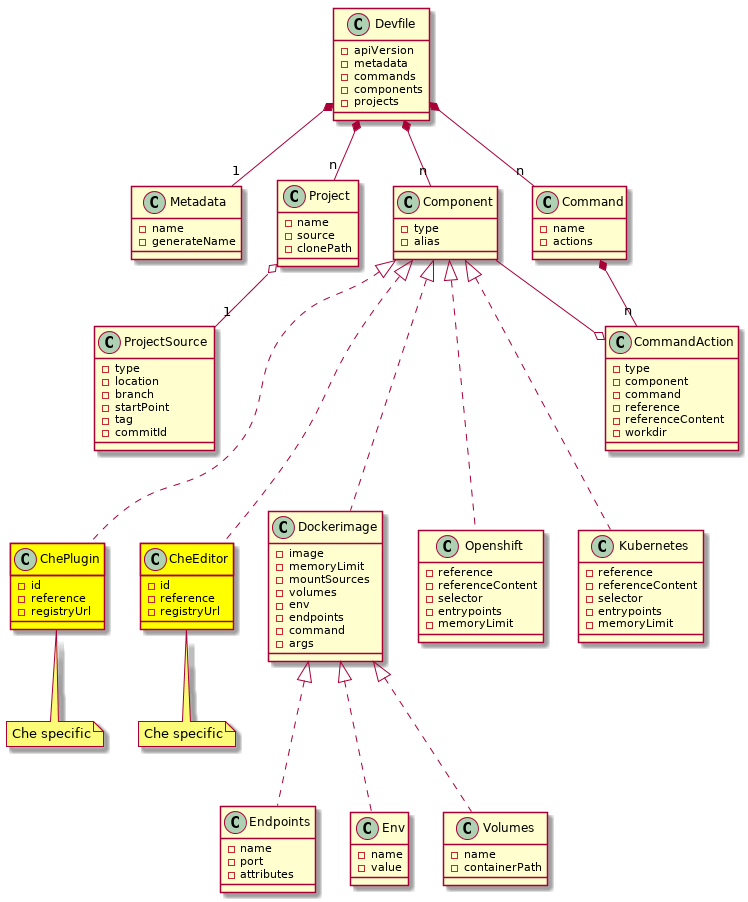
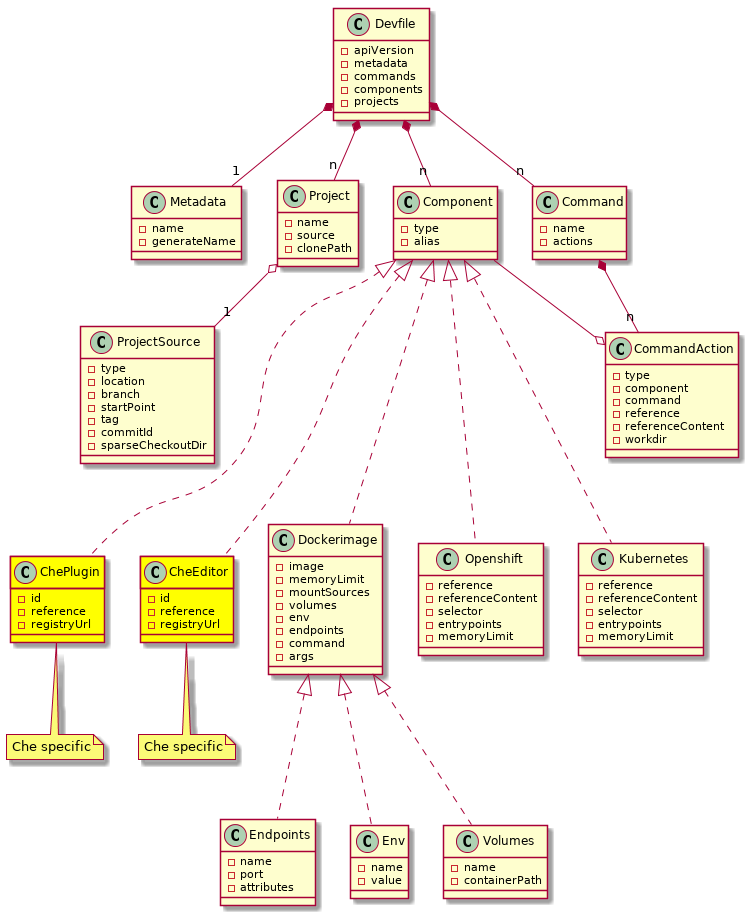
update schema with latest master (#54)

diff --git a/docs/devfile.md b/docs/devfile.md
@@ -14,7 +14,7 @@ This schema describes the structure of the devfile object
 
 | Property                  | Type       | Required     | Nullable | Defined by                   |
 | ------------------------- | ---------- | ------------ | -------- | ---------------------------- |
-| [apiVersion](#apiversion) | `string`   | **Required** | No       | Devfile object (this schema) |
+| [apiVersion](#apiversion) | `const`    | **Required** | No       | Devfile object (this schema) |
 | [attributes](#attributes) | `object`   | Optional     | No       | Devfile object (this schema) |
 | [commands](#commands)     | `object[]` | Optional     | No       | Devfile object (this schema) |
 | [components](#components) | `object[]` | Optional     | No       | Devfile object (this schema) |
@@ -28,14 +28,10 @@ This schema describes the structure of the devfile object
 `apiVersion`
 
 - is **required**
-- type: `string`
+- type: `const`
 - defined in this schema
 
-### apiVersion Type
-
-`string`
-
-### apiVersion Example
+The value of this property **must** be equal to:
 
 ```json
 "1.0.0"
@@ -507,7 +503,7 @@ Describes the project's source - type and location
 `object` with following properties:
 
 | Property            | Type   | Required     |
-| ------------        | ------ | ------------ |
+| ------------------- | ------ | ------------ |
 | `branch`            | string | Optional     |
 | `commitId`          | string | Optional     |
 | `location`          | string | **Required** |
@@ -595,23 +591,23 @@ Part of project to populate in the working directory.
 
 ##### sparseCheckoutDir Examples
 
-```
+```json
 /core/
 ```
 
-```
+```json
 core/
 ```
 
-```
+```json
 core
 ```
 
-```
+```json
 /wsmaster/che-core-api-workspace/
 ```
 
-```
+```json
 /d*
 ```
 
